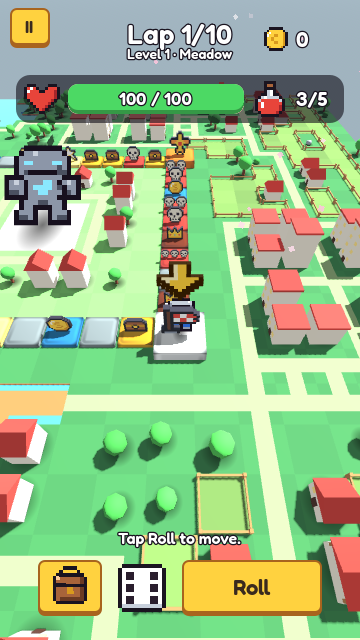
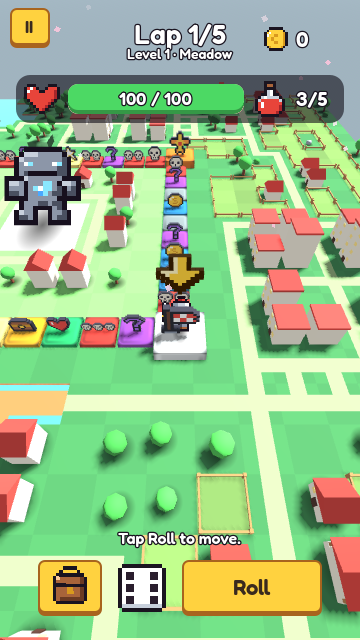
Roll & Ruin: new screenshots and sprites, current features, privacy policy and terms for analytics and purchases

diff --git a/rollandruin/privacy/index.html b/rollandruin/privacy/index.html
@@ -25,7 +25,7 @@
 
         <section class="row" style="border-top: 0">
             <h1 style="grid-column: 1 / -1; margin: 0; font-family: var(--game)">Privacy policy</h1>
-            <p class="muted" style="grid-column: 1 / -1">Roll &amp; Ruin for Android. Last updated 27 October
+            <p class="muted" style="grid-column: 1 / -1">Roll &amp; Ruin for Android. Last updated 2 November
                 2026.</p>
         </section>
 
@@ -41,57 +41,99 @@
         <section class="row">
             <h2>The short version</h2>
             <div>
-                <p>The game has no servers of its own, no analytics and no accounts of its own. Your progress
-                    is stored on your phone. If you sign in with Google Play Games, a copy is also stored in your
-                    Google account. The game shows rewarded ads from Google AdMob, but only when you tap
-                    "Watch ad", and the AdMob service collects data as described below.</p>
+                <p>The game has no servers or accounts of its own. Your progress is stored on your phone, and
+                    in your Google account if you sign in with Google Play Games. With your consent, the game
+                    sends anonymous gameplay events to Google Analytics for Firebase. Rewarded ads from Google
+                    AdMob only play when you tap "Watch ad", and real-money purchases go through Google Play. We
+                    never see your name, email or payment details.</p>
             </div>
         </section>
 
         <section class="row">
             <h2>Data on your phone</h2>
             <div>
-                <p>The game saves your progress (levels, gems, upgrades, heroes, daily rewards) and your settings
-                    (sound, vibration) in its own storage on your phone. This data never leaves the phone unless
-                    you sign in with Google Play Games. Uninstalling the game or clearing its data in Android
-                    settings deletes it.</p>
+                <p>The game saves your progress (levels, gems, upgrades, heroes, daily rewards, the items you
+                    bought) and your settings (sound, vibration, frame rate, analytics) in its own storage on
+                    your phone. You can erase it at any time in Settings, "Profile &amp; Data", "Delete my
+                    data". Uninstalling the game or clearing its data in Android settings also deletes it.</p>
             </div>
         </section>
 
         <section class="row">
             <h2>Google Play Games</h2>
             <div>
-                <p>Signing in is optional; you can play everything as a guest. If you sign in, the game uses your
-                    Play Games player profile to show your player name and stores your progress as a Saved Game in
-                    your Google account, so it can be restored on another phone. The developer cannot see your
-                    saved data or your Google account.</p>
+                <p>Signing in is optional; you can play everything as a guest, and you can sign out from the
+                    title screen. If you sign in, the game uses your Play Games player profile to show your
+                    player name and stores your progress as a Saved Game in your Google account, so it can be
+                    restored on another phone. The developer cannot see your saved data or your Google
+                    account. "Delete my data" also deletes this cloud save.</p>
                 <p>Google handles this data under the <a href="https://policies.google.com/privacy">Google
-                        Privacy Policy</a>. You can delete the saved data for this game, or your whole Play Games
-                    profile, in the Google Play Games settings.</p>
+                        Privacy Policy</a>. You can also delete the saved data for this game, or your whole Play
+                    Games profile, in the Google Play Games settings.</p>
+            </div>
+        </section>
+
+        <section class="row">
+            <h2>Gameplay analytics</h2>
+            <div>
+                <p>With your permission, the game sends anonymous gameplay events to Google Analytics for
+                    Firebase (Google Ireland Ltd / Google LLC): when a level starts and ends (level, hero,
+                    result, laps, dice rolls, which enemy won, play time), shop purchases, rewarded ads
+                    watched, tutorial steps, and days since install. They come with a random app-instance ID
+                    and basic device information (such as model, OS version and country). We do not send your
+                    name, email or Google Play Games ID, and we use the data only to balance the game and see
+                    where players stop.</p>
+                <p>In the European Economic Area, the UK and Switzerland, nothing is sent unless you agree to
+                    "store and/or access information on a device" in the consent form. You can switch analytics
+                    off at any time in Settings, "Anonymous analytics", or change your choice under "Ad privacy
+                    choices". The data is kept for 2 months and then deleted. "Delete my data" cannot erase
+                    events that were already sent; they expire with the rest.</p>
             </div>
         </section>
 
         <section class="row">
             <h2>Ads (Google AdMob)</h2>
             <div>
-                <p>The game offers optional rewarded ads: you choose to watch one for a reward, such as a revive or
-                    free gems. The ads come from Google AdMob. To show and measure ads and prevent fraud, the AdMob
-                    SDK collects data such as your device's advertising ID, IP address, device and app
-                    information, ad interactions, and crash and performance data.</p>
+                <p>The game offers optional rewarded ads: you choose to watch one for a reward, such as a revive,
+                    free gems or a boost. The ads come from Google AdMob. To show and measure ads and prevent
+                    fraud, the AdMob SDK collects data such as your device's advertising ID, IP address, device
+                    and app information, ad interactions, and crash and performance data. If you bought No Ads,
+                    the AdMob SDK is not started.</p>
                 <p>If you are in the European Economic Area, the UK or Switzerland, the game asks for your consent
                     before ads are personalised. Without consent you get non-personalised ads. You can change
-                    your choice at any time in the game under Settings, "Ad privacy choices". You can also reset or
-                    delete your advertising ID in your phone's Android settings.</p>
-                <p>See <a href="https://policies.google.com/technologies/partner-sites">how Google uses information
-                        from apps that use its services</a>.</p>
+                    your choice at any time in the game under Settings, "Ad privacy choices". You can also reset
+                    or delete your advertising ID in your phone's Android settings.</p>
+                <p>See <a href="https://policies.google.com/technologies/partner-sites">how Google uses
+                        information from apps that use its services</a>.</p>
+            </div>
+        </section>
+
+        <section class="row">
+            <h2>Purchases</h2>
+            <div>
+                <p>Real-money purchases (gem packs, skins and No Ads) are processed by Google Play; we never see
+                    your payment details. The game stores which items you bought (the product ID and Google's
+                    purchase token) on your phone and in your Play Games cloud save, so your purchases come back
+                    on a new phone. If you allowed analytics, it also sends an anonymous purchase event with the
+                    product ID only. Refunds follow Google Play's refund policy.</p>
+            </div>
+        </section>
+
+        <section class="row">
+            <h2>Legal bases</h2>
+            <div>
+                <p>Saving your progress, the cloud save and purchases are needed to provide the game you asked
+                    for (performance of a contract). Analytics and personalised ads rely on your consent, which
+                    you can withdraw at any time in Settings.</p>
             </div>
         </section>
 
         <section class="row">
             <h2>Sharing and security</h2>
             <div>
-                <p>The developer does not sell, share or receive your personal data. Data the Google services above
-                    send is encrypted in transit.</p>
+                <p>The developer does not sell your personal data or share it with anyone besides the Google
+                    services above, and only sees the anonymous analytics reports. Data the game and those
+                    services send is encrypted in transit.</p>
             </div>
         </section>
 
@@ -106,9 +148,10 @@
         <section class="row">
             <h2>Your rights</h2>
             <div>
-                <p>Under the GDPR you can ask for access to, correction or deletion of your data. Because the
-                    developer holds none, such requests are handled by the controls above or by Google. You can
-                    also complain to the Estonian Data Protection Inspectorate (Andmekaitse Inspektsioon).</p>
+                <p>Under the GDPR you can ask for access to, correction or deletion of your data, and withdraw
+                    your consent at any time. Most of this you can do yourself with the controls above; for
+                    anything else, email the address at the top. You can also complain to the Estonian Data
+                    Protection Inspectorate (Andmekaitse Inspektsioon).</p>
             </div>
         </section>
 

diff --git a/rollandruin/index.html b/rollandruin/index.html
@@ -43,7 +43,7 @@
                 <figcaption>Choosing a land</figcaption>
             </figure>
             <figure>
-                <div class="phone"><img src="img/board.png" alt="The board in the Meadow land on lap 1 of 10"
+                <div class="phone"><img src="img/board.png" alt="The board in the Meadow land on lap 1 of 5"
                         width="360" height="640"></div>
                 <figcaption>A level in Meadow</figcaption>
             </figure>
@@ -60,14 +60,16 @@
             <h2>How it plays</h2>
             <div>
                 <p>Each turn you roll a die, then choose to go, nudge the result by one, or reroll. The tile you
-                    land on decides what happens next. After ten laps the boss wakes up in the middle of the board,
+                    land on decides what happens next. After five laps the boss wakes up in the middle of the board,
                     and every tile leads to it.</p>
+                <p>The boss doesn't wait quietly. Every five rolls it curses the board with walls, graves, lava or
+                    ice, or robs the shops. The curses fade when you pass Start.</p>
                 <p>Fights play out by themselves. Your one decision is when to drink a heal potion.</p>
                 <p>Weapons, armour and trinkets come in five rarities. Rarer items carry enchants such as
                     lifesteal, cleave, lightning, thorns and frost, and an arrow shows whether a drop is an
                     upgrade.</p>
-                <p>Passing Start refills the board, and every fourth lap stops you in a shop. Between runs you
-                    unlock heroes, buy permanent upgrades and pick up daily missions.</p>
+                <p>Passing Start refills the board, and on laps 2 and 4 you stop in a shop. Between runs you
+                    unlock heroes, buy permanent upgrades, pick up daily missions and open a weekly chest.</p>
             </div>
         </section>
 
@@ -82,6 +84,16 @@
                 <li><img class="pixel" src="img/blessing.png" alt="" width="36" height="36">Blessings</li>
                 <li><img class="pixel" src="img/icon_rest.png" alt="" width="36" height="36">Rest</li>
                 <li><img class="pixel" src="img/icon_boss.png" alt="" width="36" height="36">The boss</li>
+            </ul>
+        </section>
+
+        <section class="row">
+            <h2>Boss curses</h2>
+            <ul class="sprites">
+                <li><img class="pixel" src="img/icon_wall.png" alt="" width="36" height="36">Walls</li>
+                <li><img class="pixel" src="img/icon_grave.png" alt="" width="36" height="36">Graves</li>
+                <li><img class="pixel" src="img/icon_lava.png" alt="" width="36" height="36">Lava</li>
+                <li><img class="pixel" src="img/icon_ice.png" alt="" width="36" height="36">Ice</li>
             </ul>
         </section>
 
@@ -118,15 +130,17 @@
             <h2>How it's built</h2>
             <div>
                 <p>Godot 4.7 and GDScript, exported to Android. The game rules (board, combat, items,
-                    progression) live in plain classes with no scene nodes, so they run headless under 37 GUT test
+                    progression) live in plain classes with no scene nodes, so they run headless under 41 GUT test
                     files.</p>
-                <p>Nothing is bought or downloaded. Every sprite, sound effect and piece of music comes out of
+                <p>No asset packs are bought or downloaded. Every sprite, sound effect and piece of music comes out of
                     generator scripts, and the low-poly world around the board is generated per land, the same
                     each time you visit it.</p>
                 <p>Runs save locally and can be continued after closing the app. Signing in with Google Play Games
                     backs progress up to the cloud.</p>
-                <p class="tech">Godot 4.7, GDScript, GUT, gdtoolkit, Google Play Games Services, AdMob, Android
-                    SDK</p>
+                <p>The game is free. Rewarded ads only play when you ask for one, and gem packs, skins and No Ads
+                    are sold through Google Play. Anonymous gameplay analytics are sent only with your consent.</p>
+                <p class="tech">Godot 4.7, GDScript, GUT, gdtoolkit, Google Play Games Services, Google Play
+                    Billing, AdMob, Firebase Analytics, Android SDK</p>
             </div>
         </section>
 

diff --git a/rollandruin/terms/index.html b/rollandruin/terms/index.html
@@ -25,7 +25,7 @@
 
         <section class="row" style="border-top: 0">
             <h1 style="grid-column: 1 / -1; margin: 0; font-family: var(--game)">Terms of service</h1>
-            <p class="muted" style="grid-column: 1 / -1">Roll &amp; Ruin for Android. Last updated 27 October
+            <p class="muted" style="grid-column: 1 / -1">Roll &amp; Ruin for Android. Last updated 2 November
                 2026.</p>
         </section>
 
@@ -49,19 +49,33 @@
         <section class="row">
             <h2>Gems and items</h2>
             <div>
-                <p>Gems, gold, items and other things you earn in the game are part of the game only. They have no
-                    real-money value, cannot be bought, sold or exchanged for money, and are not your property.
-                    Progress can be lost, for example if you uninstall the game without signing in to Google Play
-                    Games, and game balance may change in updates.</p>
+                <p>Gems, gold, items, skins and other things you earn or buy in the game are part of the game
+                    only. You get a personal licence to use them in the game; they are not your property, have no
+                    cash value and cannot be sold, transferred or exchanged for money. Progress can be lost, for
+                    example if you uninstall the game without signing in to Google Play Games, and game balance
+                    may change in updates.</p>
+            </div>
+        </section>
+
+        <section class="row">
+            <h2>Purchases</h2>
+            <div>
+                <p>The game is free, and you can buy optional gem packs, skins and No Ads with real money.
+                    Purchases are made through Google Play and covered by its terms, and refunds follow Google
+                    Play's refund policy. Skins and No Ads are restored when you reinstall or move to a new
+                    phone with the same Google account; gems are added once and are not restored after they
+                    are spent. No Ads removes the rewarded ads and gives their rewards straight away; the daily
+                    limits on those rewards stay.</p>
             </div>
         </section>
 
         <section class="row">
             <h2>Ads and Google services</h2>
             <div>
-                <p>Optional rewarded ads are provided by Google AdMob, and sign-in and cloud save by Google Play
-                    Games. Your use of those services is also covered by Google's terms. How data is handled is
-                    explained in the <a href="../privacy/">privacy policy</a>.</p>
+                <p>Optional rewarded ads are provided by Google AdMob, sign-in and cloud save by Google Play
+                    Games, purchases by Google Play, and anonymous analytics (only with your consent) by Google
+                    Analytics for Firebase. Your use of those services is also covered by Google's terms. How
+                    data is handled is explained in the <a href="../privacy/">privacy policy</a>.</p>
             </div>
         </section>
 
